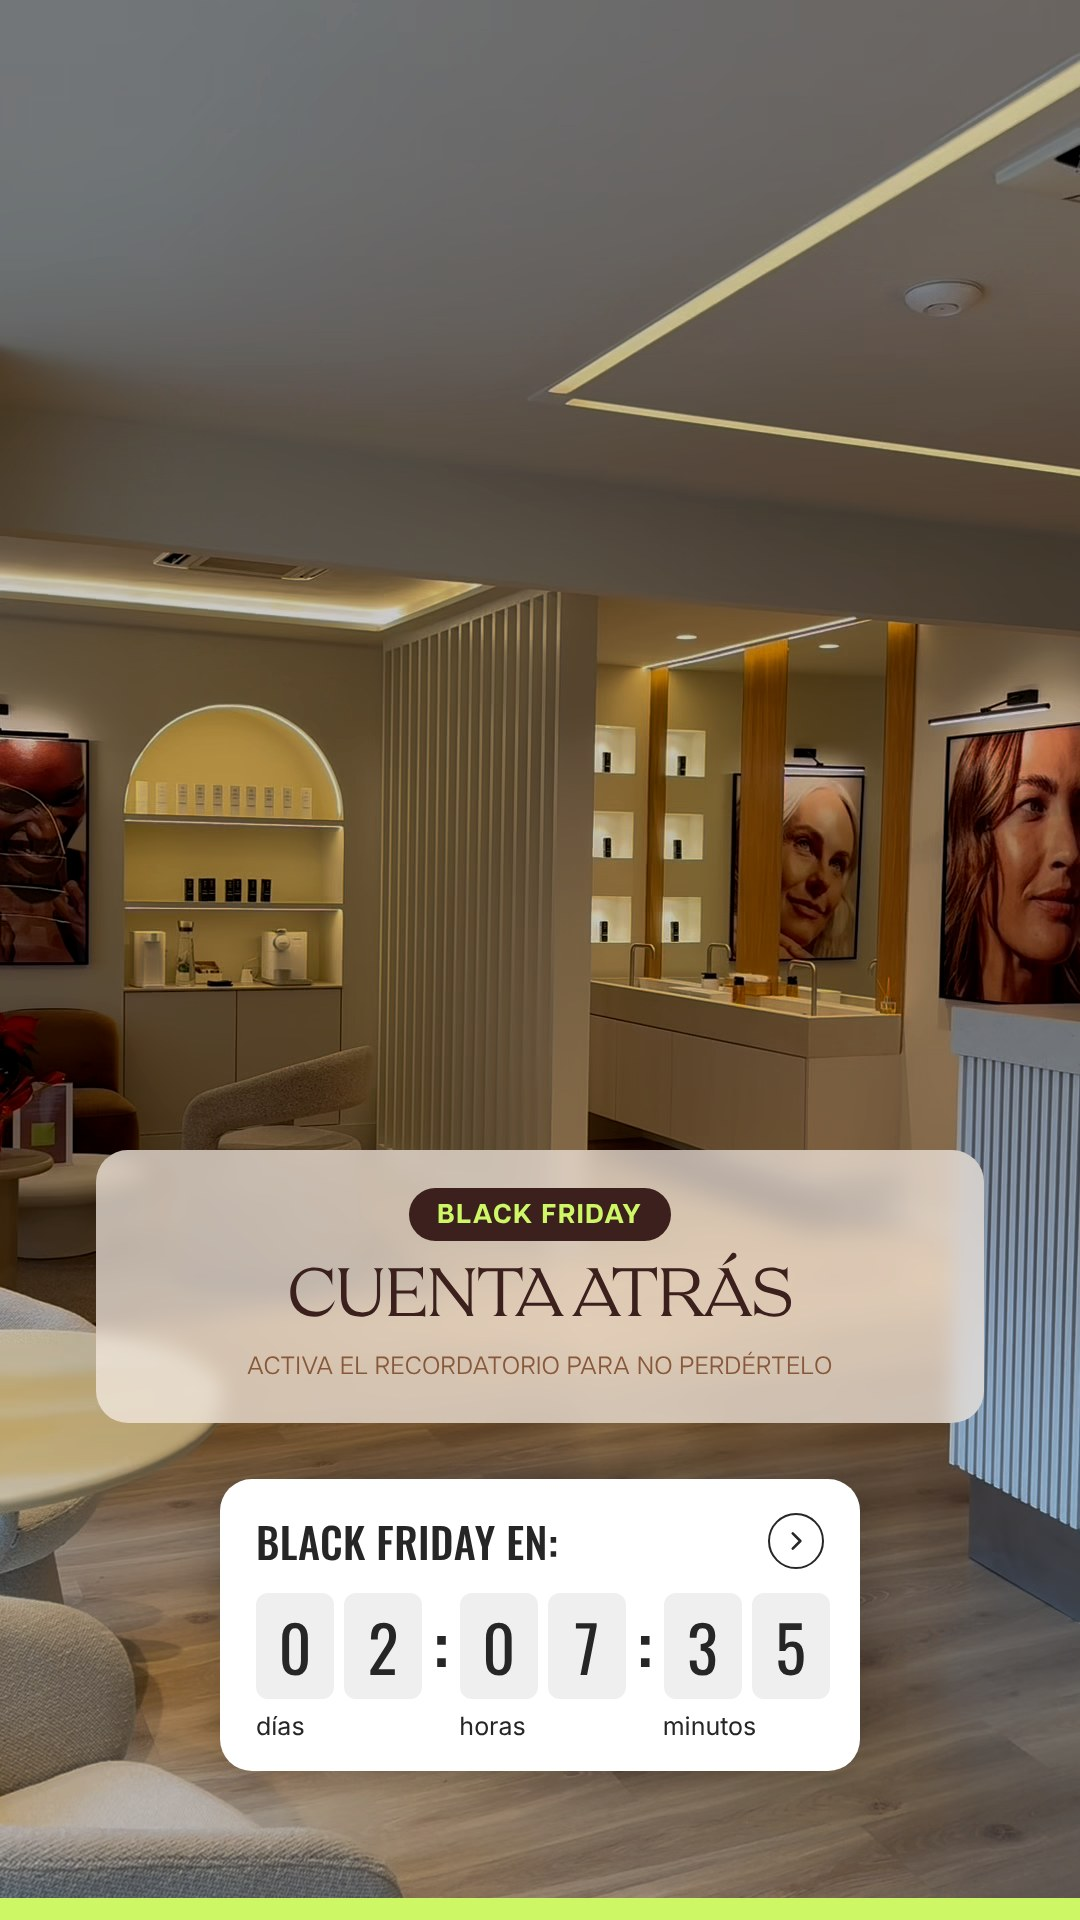
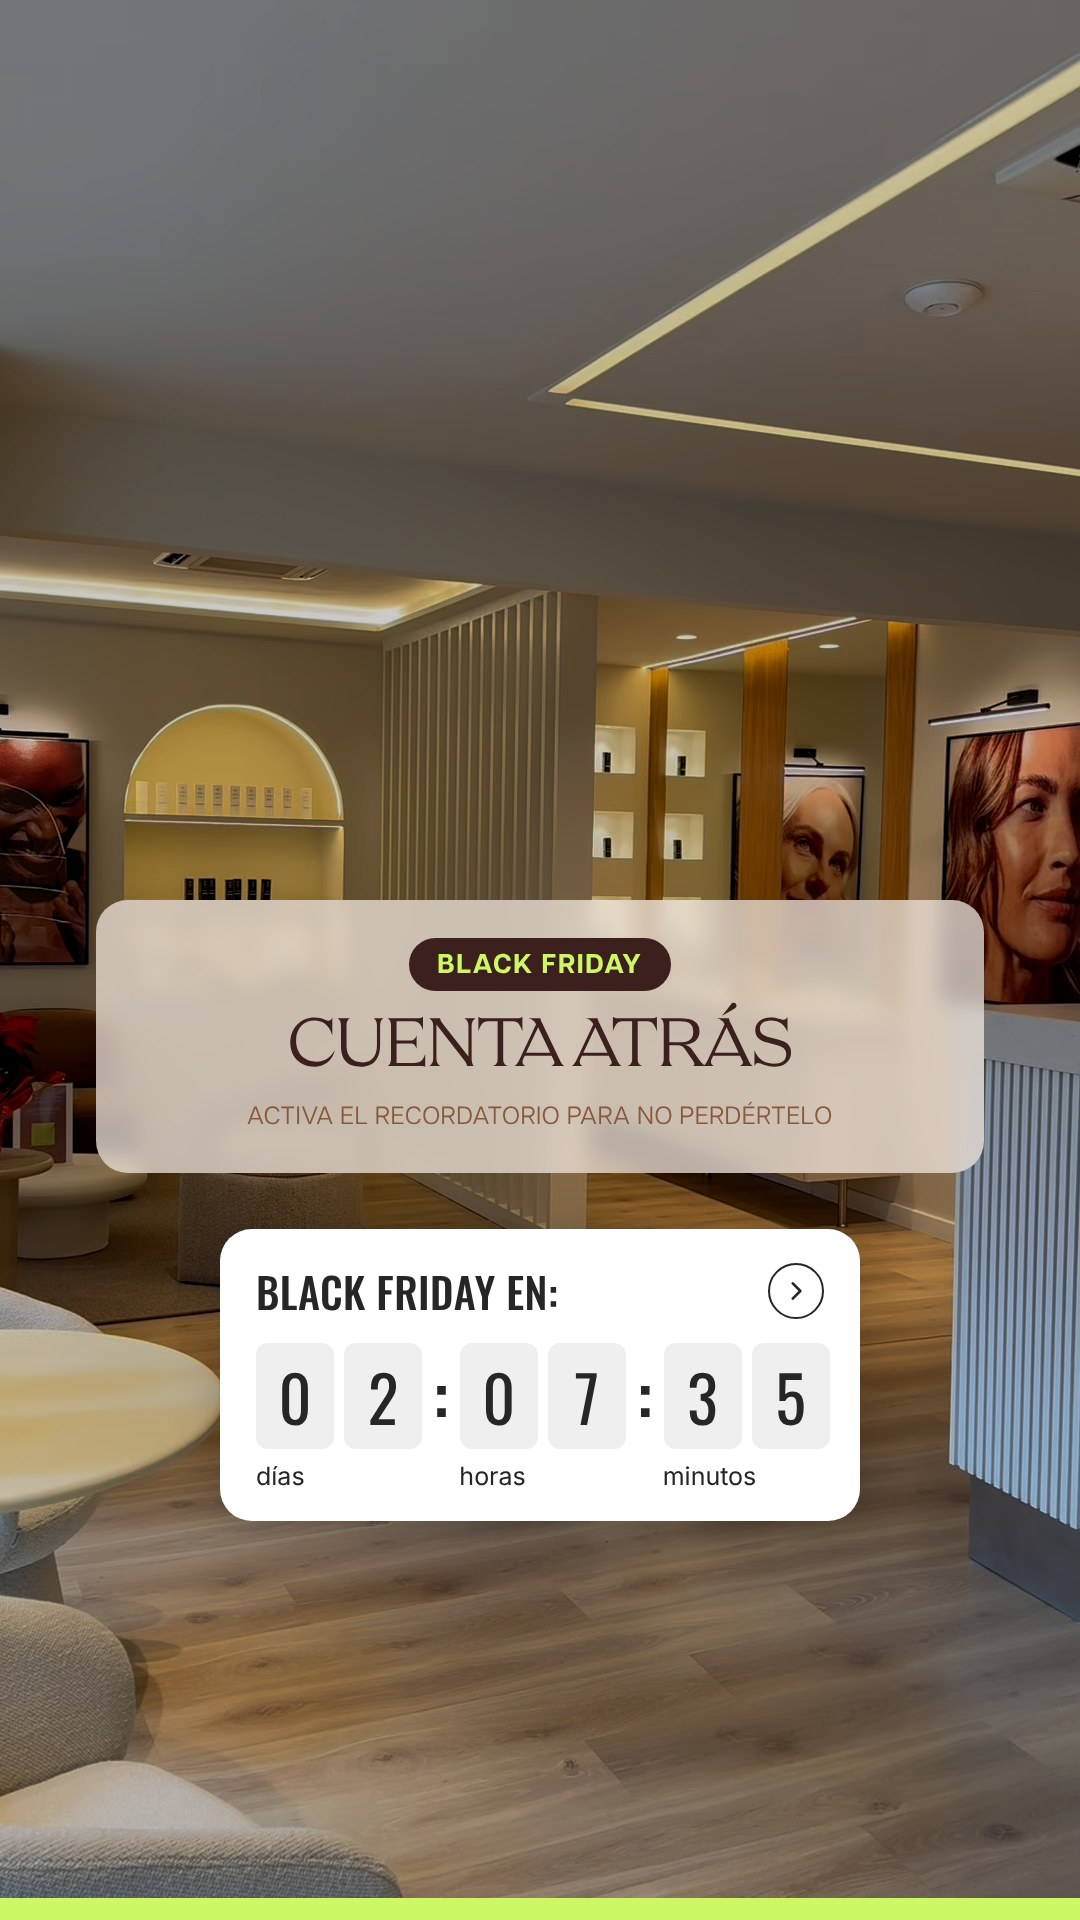
Lunes 16: stories con el contenido más centrado y a la misma altura
Claude-Session: https://claude.ai/code/session_01JZ4qrB4vBJCM1LriYw1bZU

diff --git a/public/pitch/skin-laundry-calendario/noviembre/index.html b/public/pitch/skin-laundry-calendario/noviembre/index.html
@@ -886,7 +886,7 @@ const MOSTRAR_STORIES = false;
 const STORIES = {
   /* Pedidas por el cliente el mismo día: teaser del Black Friday (sin enseñar la oferta, que se desvela el 18) */
   16: { titulo:"Teaser Black Friday", hora:"Hoy", estado:"listo",
-        imgs:["/pitch/skin-laundry-calendario/noviembre/img/s16_1.jpg?v=11161440","/pitch/skin-laundry-calendario/noviembre/img/s16_2.jpg?v=11161440","/pitch/skin-laundry-calendario/noviembre/img/s16_3.jpg?v=11161440"],
+        imgs:["/pitch/skin-laundry-calendario/noviembre/img/s16_1.jpg?v=11161445","/pitch/skin-laundry-calendario/noviembre/img/s16_2.jpg?v=11161445","/pitch/skin-laundry-calendario/noviembre/img/s16_3.jpg?v=11161445"],
         items:["Algo bueno está por llegar · lo contamos el miércoles · sin sticker","Tu lista de deseos: ¿hay algo para tu piel este año? · caja de preguntas: ¿qué tratamiento te pedirías?","Cuenta atrás · sticker de cuenta atrás «Black Friday en:» hasta el miércoles 18 a las 19:30 (sale el post) · activa el recordatorio"] },
   /* Pack que iba a salir el miércoles 11 y no se publicó: pasa al viernes 13 */
   13: { titulo:"Pack de stories", hora:"12:00h", estado:"listo",
